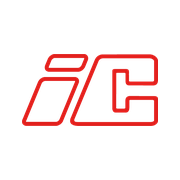
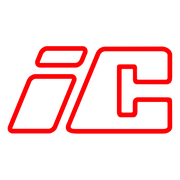
Icone original na aba e formulario enviando pelo WhatsApp
- Favicon e apple-touch-icon trocados pelo icone original do site deles
- Formulario abre o WhatsApp oficial (+55 12 99108-7550, do Linktree da empresa) com a mensagem montada a partir dos campos
- Contato ganha WhatsApp, horario Seg a Sex 8h-17h e os e-mails das equipes cientifica, comercial e contato@

Changed region(s): [[0.0278, 0.25, 0.9722, 0.75]]

diff --git a/index.html b/index.html
@@ -18,6 +18,7 @@
 <meta property="og:image:height" content="630">
 <meta name="twitter:card" content="summary_large_image">
 <link rel="icon" type="image/png" sizes="32x32" href="assets/img/favicon-32.png">
+<link rel="icon" type="image/png" sizes="192x192" href="assets/img/favicon-192.png">
 <link rel="apple-touch-icon" href="assets/img/apple-touch-icon.png">
 <link rel="preconnect" href="https://fonts.googleapis.com">
 <link rel="preconnect" href="https://fonts.gstatic.com" crossorigin>
@@ -59,6 +60,7 @@
     <symbol id="i-calendar" viewBox="0 0 24 24"><path d="M8 2v4"/><path d="M16 2v4"/><rect width="18" height="18" x="3" y="4" rx="2"/><path d="M3 10h18"/></symbol>
     <symbol id="i-search" viewBox="0 0 24 24"><circle cx="11" cy="11" r="8"/><path d="m21 21-4.3-4.3"/></symbol>
     <symbol id="i-back" viewBox="0 0 24 24"><path d="m12 19-7-7 7-7"/><path d="M19 12H5"/></symbol>
+    <symbol id="i-whatsapp" viewBox="0 0 24 24"><path d="M17.47 14.38c-.3-.15-1.76-.87-2.03-.97-.27-.1-.47-.15-.67.15-.2.3-.77.97-.94 1.17-.17.2-.35.22-.64.07-.3-.15-1.26-.46-2.4-1.48-.89-.79-1.49-1.77-1.66-2.07-.17-.3-.02-.46.13-.61.13-.13.3-.35.45-.52.15-.17.2-.3.3-.5.1-.2.05-.37-.02-.52-.08-.15-.67-1.61-.92-2.2-.24-.58-.49-.5-.67-.51h-.57c-.2 0-.52.07-.79.37-.27.3-1.04 1.02-1.04 2.48 0 1.46 1.07 2.88 1.21 3.07.15.2 2.1 3.2 5.08 4.49.71.31 1.26.49 1.7.63.71.23 1.36.2 1.87.12.57-.09 1.76-.72 2.01-1.41.25-.7.25-1.29.17-1.41-.07-.13-.27-.2-.57-.35M12.05 21.5h-.01a9.43 9.43 0 0 1-4.8-1.32l-.35-.2-3.57.93.96-3.48-.23-.36A9.4 9.4 0 0 1 2.6 12.04C2.6 6.84 6.84 2.6 12.06 2.6c2.52 0 4.9.99 6.68 2.77a9.37 9.37 0 0 1 2.76 6.68c0 5.2-4.24 9.45-9.45 9.45M20.1 4c-2.15-2.15-5-3.34-8.05-3.34C5.78.66.67 5.77.67 12.04c0 2 .52 3.96 1.52 5.69L.57 23.7l6.1-1.6a11.36 11.36 0 0 0 5.37 1.37h.01c6.27 0 11.38-5.11 11.38-11.38 0-3.04-1.18-5.9-3.33-8.05"/></symbol>
     <symbol id="i-up" viewBox="0 0 24 24"><path d="m5 12 7-7 7 7"/><path d="M12 19V5"/></symbol>
   </defs>
 </svg>
@@ -701,15 +703,27 @@
         <ul class="contact-list reveal" style="--d:3">
           <li>
             <span class="contact-icon" aria-hidden="true"><svg class="icon"><use href="#i-phone"/></svg></span>
-            <div><span class="contact-label">Telefone</span><a href="tel:+551239499700">+55 12 3949-9700</a></div>
+            <div><span class="contact-label">Telefone</span><a href="tel:+551239499700">+55 (12) 3949-9700</a><span class="contact-note">Seg a Sex, 8:00 às 17:00</span></div>
+          </li>
+          <li>
+            <span class="contact-icon" aria-hidden="true"><svg class="icon icon-fill"><use href="#i-whatsapp"/></svg></span>
+            <div><span class="contact-label">WhatsApp</span><a href="https://wa.me/5512991087550?text=Ol%C3%A1!%20Vim%20pelo%20site%20da%20Intercientifica." target="_blank" rel="noopener">+55 (12) 99108-7550</a></div>
+          </li>
+          <li>
+            <span class="contact-icon" aria-hidden="true"><svg class="icon"><use href="#i-flask"/></svg></span>
+            <div><span class="contact-label">Equipe científica</span><a href="mailto:ic@intercientifica.com.br">ic@intercientifica.com.br</a></div>
+          </li>
+          <li>
+            <span class="contact-icon" aria-hidden="true"><svg class="icon"><use href="#i-card"/></svg></span>
+            <div><span class="contact-label">Equipe comercial</span><a href="mailto:b2c@intercientifica.com.br">b2c@intercientifica.com.br</a></div>
           </li>
           <li>
             <span class="contact-icon" aria-hidden="true"><svg class="icon"><use href="#i-mail"/></svg></span>
-            <div><span class="contact-label">E-mail</span><a href="mailto:ic@intercientifica.com.br">ic@intercientifica.com.br</a><a href="mailto:b2c@intercientifica.com.br">b2c@intercientifica.com.br</a></div>
+            <div><span class="contact-label">Contato</span><a href="mailto:contato@intercientifica.com.br">contato@intercientifica.com.br</a></div>
           </li>
           <li>
             <span class="contact-icon" aria-hidden="true"><svg class="icon"><use href="#i-pin"/></svg></span>
-            <div><span class="contact-label">Endereço</span><address>Av. Shishima Hifumi, 2911, <span class="nowrap">MOD 306-309</span><br>Parque Tecnológico UNIVAP<br>São José dos Campos, SP · <span class="nowrap">CEP 12244-000</span></address></div>
+            <div><span class="contact-label">Endereço</span><address>Av. Shishima Hifumi, 2911, <span class="nowrap">Mod. 306-309</span>, Urbanova<br>Parque Tecnológico UNIVAP<br>São José dos Campos, SP · <span class="nowrap">CEP 12244-000</span></address></div>
           </li>
         </ul>
 
@@ -718,7 +732,7 @@
         </div>
       </div>
 
-      <form class="form reveal" style="--d:2" id="contact-form" novalidate>
+      <form class="form reveal" style="--d:2" id="contact-form" data-whatsapp="5512991087550" novalidate>
         <h3>Envie sua mensagem</h3>
         <p class="form-hint">Campos marcados com <span aria-hidden="true">*</span><span class="sr-only">asterisco</span> são obrigatórios.</p>
 
@@ -795,9 +809,9 @@
           <p class="field-error" id="e-msg"></p>
         </div>
 
-        <button class="btn btn-primary btn-block" type="submit">Enviar mensagem<svg class="icon" aria-hidden="true"><use href="#i-arrow"/></svg></button>
+        <button class="btn btn-whatsapp btn-block" type="submit"><svg class="icon icon-fill" aria-hidden="true"><use href="#i-whatsapp"/></svg>Enviar pelo WhatsApp</button>
         <p class="form-status" id="form-status" role="status" aria-live="polite"></p>
-        <p class="form-note">Ao enviar, abrimos o seu aplicativo de e-mail com a mensagem pronta para ic@intercientifica.com.br.</p>
+        <p class="form-note">Ao enviar, abrimos o WhatsApp da Intercientifica com a sua mensagem já escrita. É só tocar em enviar.</p>
       </form>
     </div>
   </section>

diff --git a/styles.css b/styles.css
@@ -157,6 +157,9 @@ p { margin: 0 0 1rem; color: var(--ink-soft); }
 
 .btn-primary { background: var(--red-700); color: #fff; box-shadow: 0 8px 20px rgba(179, 20, 15, 0.24); }
 .btn-primary:hover { background: var(--red-800); box-shadow: 0 12px 28px rgba(179, 20, 15, 0.3); transform: translateY(-2px); }
+.btn-whatsapp { background: #0F7A40; color: #fff; box-shadow: 0 8px 20px rgba(15, 122, 64, 0.25); }
+.btn-whatsapp:hover { background: #0B6B37; transform: translateY(-2px); }
+.icon-fill { fill: currentColor; stroke: none; }
 .btn-ghost { background: #fff; color: var(--ink); border-color: var(--line-strong); }
 .btn-ghost:hover { border-color: var(--ink); }
 
@@ -600,6 +603,7 @@ p { margin: 0 0 1rem; color: var(--ink-soft); }
 .contact-label { display: block; font-size: 0.78rem; font-weight: 600; letter-spacing: 0.06em; text-transform: uppercase; color: var(--muted); }
 .contact-list a { display: block; width: fit-content; font-family: var(--font-head); font-weight: 600; font-size: 1.02rem; color: var(--ink); text-decoration: none; line-height: 1.7; }
 .contact-list a:hover { color: var(--red-700); text-decoration: underline; text-underline-offset: 3px; }
+.contact-note { display: block; font-size: 0.9rem; color: var(--ink-soft); }
 .contact-list address { font-style: normal; color: var(--ink-2); line-height: 1.55; margin-top: 2px; }
 .map { position: relative; height: 260px; border-radius: var(--r-lg); overflow: hidden; border: 1px solid var(--line); background: var(--surface-2); }
 .map iframe { position: absolute; inset: 0; width: 100%; height: 100%; border: 0; }

diff --git a/script.js b/script.js
@@ -242,6 +242,25 @@
       '',
       data.get('mensagem')
     ].join('\n');
+    const whatsapp = (form.dataset.whatsapp || '').replace(/\D/g, '');
+    if (whatsapp) {
+      const text = [
+        'Olá! Vim pelo site da Intercientifica.',
+        '',
+        `*Assunto:* ${data.get('assunto')}`,
+        `*Nome:* ${[data.get('nome'), data.get('sobrenome')].filter(Boolean).join(' ')}`,
+        `*Laboratório ou instituição:* ${data.get('empresa') || 'não informado'}`,
+        `*E-mail:* ${data.get('email')}`,
+        `*Telefone:* ${data.get('telefone') ? `${data.get('ddi') || ''} ${data.get('telefone')}`.trim() : 'não informado'}`,
+        '',
+        '*Mensagem:*',
+        data.get('mensagem')
+      ].join('\n');
+      window.open(`https://wa.me/${whatsapp}?text=${encodeURIComponent(text)}`, '_blank', 'noopener');
+      status.className = 'form-status is-success';
+      status.textContent = 'Abrimos o WhatsApp da Intercientifica com a sua mensagem pronta. Basta tocar em enviar.';
+      return;
+    }
     window.location.href = `mailto:ic@intercientifica.com.br?subject=${encodeURIComponent(subject)}&body=${encodeURIComponent(body)}`;
     status.className = 'form-status is-success';
     status.textContent = 'Abrimos o seu aplicativo de e-mail com a mensagem pronta. Basta enviar por lá.';

diff --git a/noticias/biotinidase-teste-qualitativo-ou-quantitativo.html b/noticias/biotinidase-teste-qualitativo-ou-quantitativo.html
@@ -14,6 +14,7 @@
 <meta property="og:description" content="Em 2015, a Secretaria de Atenção à Saúde, que integra o Departamento de Atenção Especializada e Temática, do Ministério da Saúde disponibilizou exemplares…">
 <meta property="og:image" content="https://apxweb.github.io/intercientifica/assets/img/og-share.jpg">
 <link rel="icon" type="image/png" sizes="32x32" href="../assets/img/favicon-32.png">
+<link rel="icon" type="image/png" sizes="192x192" href="../assets/img/favicon-192.png">
 <link rel="apple-touch-icon" href="../assets/img/apple-touch-icon.png">
 <link rel="preconnect" href="https://fonts.googleapis.com">
 <link rel="preconnect" href="https://fonts.gstatic.com" crossorigin>

diff --git a/noticias/intercientifica-vence-o-premio-abimo-inova-saude-2011.html b/noticias/intercientifica-vence-o-premio-abimo-inova-saude-2011.html
@@ -14,6 +14,7 @@
 <meta property="og:description" content="O Prêmio ABIMO Inova Saúde 2011 da Associação Brasileira da Indústria de Artigos e Equipamentos Médicos e Odontológicos contemplou a INTERCIENTIFICA como…">
 <meta property="og:image" content="https://apxweb.github.io/intercientifica/assets/img/og-share.jpg">
 <link rel="icon" type="image/png" sizes="32x32" href="../assets/img/favicon-32.png">
+<link rel="icon" type="image/png" sizes="192x192" href="../assets/img/favicon-192.png">
 <link rel="apple-touch-icon" href="../assets/img/apple-touch-icon.png">
 <link rel="preconnect" href="https://fonts.googleapis.com">
 <link rel="preconnect" href="https://fonts.gstatic.com" crossorigin>

diff --git a/noticias/intercientifica-vence-o-premio-finep-2010-na-regiao-sudeste.html b/noticias/intercientifica-vence-o-premio-finep-2010-na-regiao-sudeste.html
@@ -14,6 +14,7 @@
 <meta property="og:description" content="Em novembro de 2010, a FINEP – Financiadora de Estudos e Projetos –, companhia pública vinculada ao Ministério da Ciência e Tecnologia, premiou empresas…">
 <meta property="og:image" content="https://apxweb.github.io/intercientifica/assets/img/og-share.jpg">
 <link rel="icon" type="image/png" sizes="32x32" href="../assets/img/favicon-32.png">
+<link rel="icon" type="image/png" sizes="192x192" href="../assets/img/favicon-192.png">
 <link rel="apple-touch-icon" href="../assets/img/apple-touch-icon.png">
 <link rel="preconnect" href="https://fonts.googleapis.com">
 <link rel="preconnect" href="https://fonts.gstatic.com" crossorigin>

diff --git a/artigos/performance-of-the-neomap-5plex-ht-multiplex-kit-for-simultaneous-detect.html b/artigos/performance-of-the-neomap-5plex-ht-multiplex-kit-for-simultaneous-detect.html
@@ -14,6 +14,7 @@
 <meta property="og:description" content="O objetivo do estudo foi avaliar o desempenho do kit NeoMAP® 5plex HT para detecção simultânea dos parâmetros T4, 17OHP, IRT, TSH e anticorpos IgM contra…">
 <meta property="og:image" content="https://apxweb.github.io/intercientifica/assets/img/og-share.jpg">
 <link rel="icon" type="image/png" sizes="32x32" href="../assets/img/favicon-32.png">
+<link rel="icon" type="image/png" sizes="192x192" href="../assets/img/favicon-192.png">
 <link rel="apple-touch-icon" href="../assets/img/apple-touch-icon.png">
 <link rel="preconnect" href="https://fonts.googleapis.com">
 <link rel="preconnect" href="https://fonts.gstatic.com" crossorigin>

diff --git a/artigos/avaliacao-economica-em-saude-triagem-neonatal-da-galactosemia-2011.html b/artigos/avaliacao-economica-em-saude-triagem-neonatal-da-galactosemia-2011.html
@@ -14,6 +14,7 @@
 <meta property="og:description" content="Este trabalho avalia a eficiência da adição do exame da galactosemia junto ao Teste do Pezinho. Baseado na incidência média estimada de galactosemia, de…">
 <meta property="og:image" content="https://apxweb.github.io/intercientifica/assets/img/og-share.jpg">
 <link rel="icon" type="image/png" sizes="32x32" href="../assets/img/favicon-32.png">
+<link rel="icon" type="image/png" sizes="192x192" href="../assets/img/favicon-192.png">
 <link rel="apple-touch-icon" href="../assets/img/apple-touch-icon.png">
 <link rel="preconnect" href="https://fonts.googleapis.com">
 <link rel="preconnect" href="https://fonts.gstatic.com" crossorigin>

diff --git a/artigos/caracterizacao-molecular-da-deficiencia-da-glicose-6-fosfato-desidrogena.html b/artigos/caracterizacao-molecular-da-deficiencia-da-glicose-6-fosfato-desidrogena.html
@@ -14,6 +14,7 @@
 <meta property="og:description" content="A glicose-6-fosfato desidrogenase (G6PD) é uma enzima presente em todas as células, que catalisa o primeiro passo metabólico da hexose monofosfato, na via…">
 <meta property="og:image" content="https://apxweb.github.io/intercientifica/assets/img/og-share.jpg">
 <link rel="icon" type="image/png" sizes="32x32" href="../assets/img/favicon-32.png">
+<link rel="icon" type="image/png" sizes="192x192" href="../assets/img/favicon-192.png">
 <link rel="apple-touch-icon" href="../assets/img/apple-touch-icon.png">
 <link rel="preconnect" href="https://fonts.googleapis.com">
 <link rel="preconnect" href="https://fonts.gstatic.com" crossorigin>

diff --git a/artigos/inovacao-de-produto-para-processamento-de-grandes-volumes.html b/artigos/inovacao-de-produto-para-processamento-de-grandes-volumes.html
@@ -14,6 +14,7 @@
 <meta property="og:description" content="Análise de Inovação de Produto para Processamento de Grandes Volumes de Amostras Através do Uso de um Sistema Automatizado Associado ao Método Multiplex…">
 <meta property="og:image" content="https://apxweb.github.io/intercientifica/assets/img/og-share.jpg">
 <link rel="icon" type="image/png" sizes="32x32" href="../assets/img/favicon-32.png">
+<link rel="icon" type="image/png" sizes="192x192" href="../assets/img/favicon-192.png">
 <link rel="apple-touch-icon" href="../assets/img/apple-touch-icon.png">
 <link rel="preconnect" href="https://fonts.googleapis.com">
 <link rel="preconnect" href="https://fonts.gstatic.com" crossorigin>

diff --git a/artigos/validacao-analitica-do-neomap-4plex-tsh-t4-17oh-irt-em-ensaio-automatiza.html b/artigos/validacao-analitica-do-neomap-4plex-tsh-t4-17oh-irt-em-ensaio-automatiza.html
@@ -14,6 +14,7 @@
 <meta property="og:description" content="A Validação realizada no Instituto Jô Clemente no período de 16 de Janeiro à 02 de Fevereiro de 2023 utilizou o kit NeoMAP® 4PLEX que realiza a Triagem…">
 <meta property="og:image" content="https://apxweb.github.io/intercientifica/assets/img/og-share.jpg">
 <link rel="icon" type="image/png" sizes="32x32" href="../assets/img/favicon-32.png">
+<link rel="icon" type="image/png" sizes="192x192" href="../assets/img/favicon-192.png">
 <link rel="apple-touch-icon" href="../assets/img/apple-touch-icon.png">
 <link rel="preconnect" href="https://fonts.googleapis.com">
 <link rel="preconnect" href="https://fonts.gstatic.com" crossorigin>

diff --git a/noticias/congresso-internacional-de-triagem-neonatal-aphl-isns-newborn-screening.html b/noticias/congresso-internacional-de-triagem-neonatal-aphl-isns-newborn-screening.html
@@ -14,6 +14,7 @@
 <meta property="og:description" content="É com grande satisfação que compartilhamos com vocês os resultados do nosso trabalho apresentado no Congresso Internacional de Triagem Neonatal APHL/ISNS…">
 <meta property="og:image" content="https://apxweb.github.io/intercientifica/assets/img/og-share.jpg">
 <link rel="icon" type="image/png" sizes="32x32" href="../assets/img/favicon-32.png">
+<link rel="icon" type="image/png" sizes="192x192" href="../assets/img/favicon-192.png">
 <link rel="apple-touch-icon" href="../assets/img/apple-touch-icon.png">
 <link rel="preconnect" href="https://fonts.googleapis.com">
 <link rel="preconnect" href="https://fonts.gstatic.com" crossorigin>
